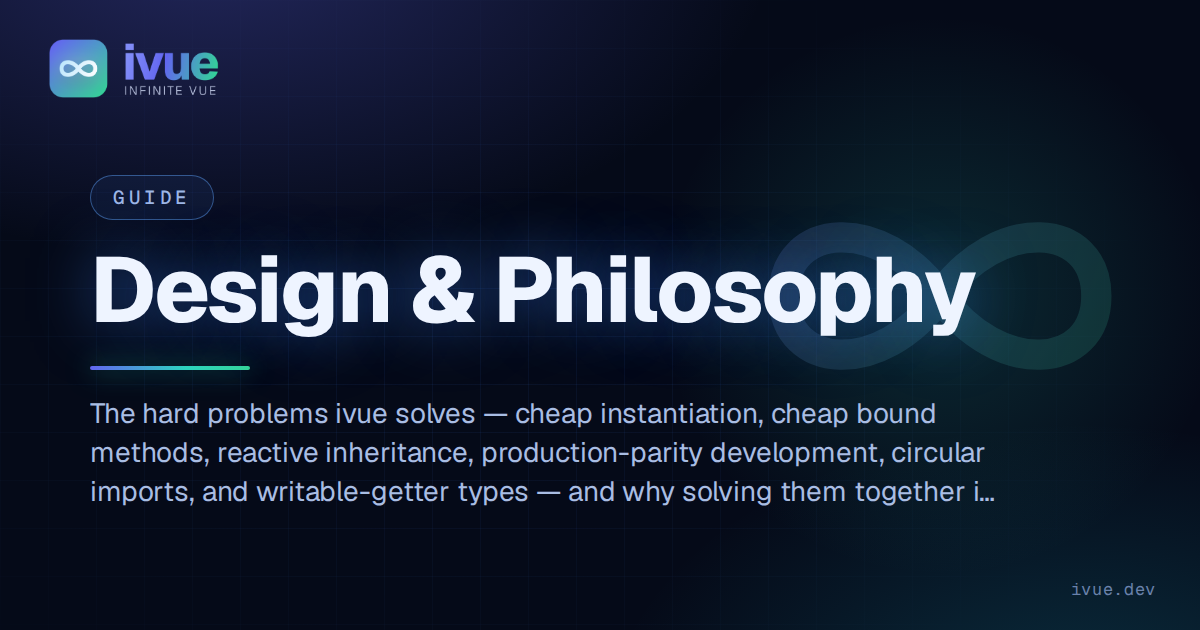
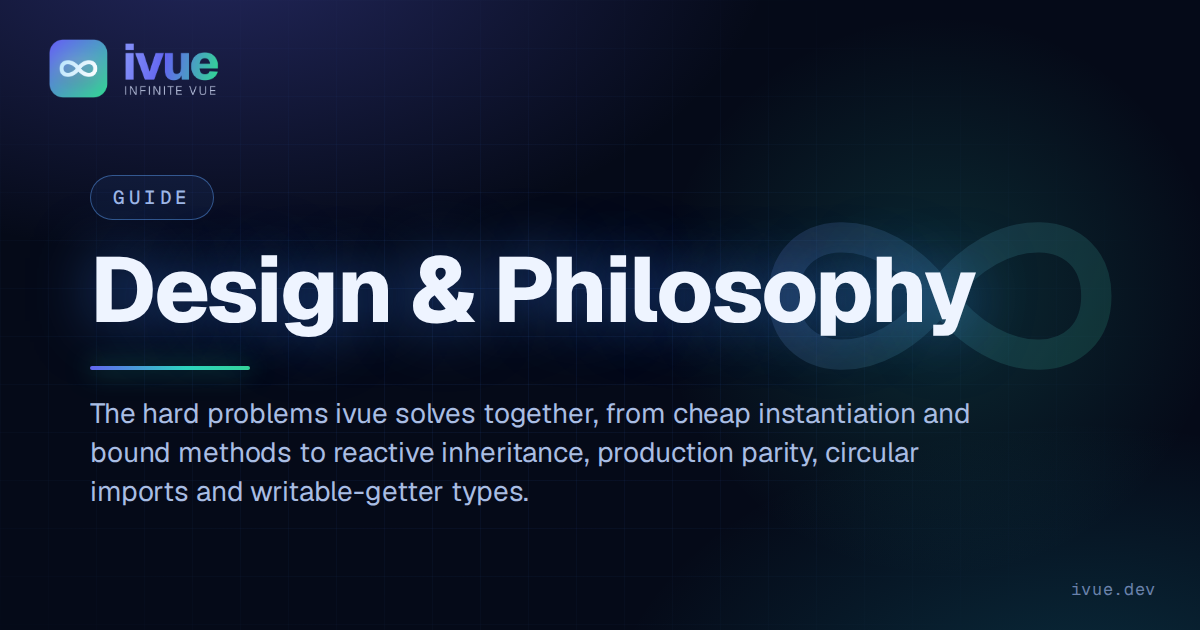
docs(design): run write-prose over the design page
45 vale errors to 0, 24 em-dashes to 0, longest sentence 39 words to 19.
1362 words to 1368, so this one was not long, it was loose.

Pass 2 cuts: "Everyone underestimates this one", a blockquote asserting
importance; "The problem becomes two-fold", a label on two paragraphs
that announce themselves; "Two forces pushed the ecosystem off classes",
the same; "and that's the real reason", an affirmation; "But the
difficulty was the ground under all of it", restating the sentence
before; "ivue solves the whole set" in the intro to a section whose
first line already said it; "ivue is not anti-composable" and "the
ecosystem's decade of composable work isn't ivue's rival", two crouches
in one section; "The types even paid a dividend"; "and it is very hard"
under a heading that says why it's hard.

Pass 3 caught two false claims. "6-132x cheaper to create" turns a time
measurement into a cost claim; the benchmark measures milliseconds, so
it now says faster, matching performance.md. "You cannot pass
this.method around" overstates it; you can pass it, you lose this.

Pass 4: "observation-priced state" appeared once and nowhere else in
the docs. Now "state that costs nothing until it is observed".

Pass 6 caught a pronoun this pass introduced. "It also avoids the two
mistakes" followed a sentence whose subject was the grid, so it read as
the grid avoiding them. Now names ivue.

Also: "Why the field left classes" was an explainer heading, now "The
[…]

Changed region(s): [[0.0617, 0.6333, 0.8325, 0.8143]]

diff --git a/docs_v2/guide/design.md b/docs_v2/guide/design.md
@@ -1,38 +1,37 @@
 ---
 title: Design & Philosophy
-description: The hard problems ivue solves — cheap instantiation, cheap bound methods, reactive inheritance, production-parity development, circular imports, and writable-getter types — and why solving them together is the achievement.
+description: The hard problems ivue solves together, from cheap instantiation and bound methods to reactive inheritance, production parity, circular imports and writable-getter types.
 relatedPosts: [the-object-graph-they-took, the-options-api-everyone-wanted, win-by-reduction]
 ---
 
 # Design & Philosophy
 
-ivue makes classes a first-class way to build Vue reactivity — a real reactive
-unit, not a component wrapper. Getting there meant solving a set of problems
-that actively fight each other, each one hard in its own right. One structure
-solves the set: shared prototype behavior, observation-priced state, and raw
-instance access with stable handles for hot paths.
+ivue makes a class a first-class way to build Vue reactivity. The class is a
+reactive unit in its own right, usable anywhere. Getting there meant solving
+problems that fight each other, each one hard on its own. One structure answers
+the set. Behavior is shared on the prototype. State costs nothing until it
+is observed. Instance access stays raw, with stable handles for hot paths.
 
 ## The problems ivue solves
 
-Every item below has sunk a class-reactivity attempt on its own. Most projects that
-tried nailed one or two and shipped the rest with rough edges. ivue solves the whole
-set.
+Every item below has sunk a class-reactivity attempt on its own. Most
+projects that tried nailed one or two and shipped the rest with rough edges.
 
 <div class="iv-problems">
   <div class="iv-problem">
     <strong class="iv-problem__title">Per-instance cost</strong>
-    <p class="iv-problem__hard"><span class="iv-x" aria-hidden="true"></span><span>A <code>reactive()</code> proxy per object is expensive; eager computeds pay for every property up front.</span></p>
-    <p class="iv-problem__solved"><span class="iv-ck" aria-hidden="true"></span><span>Instances are <strong>plain</strong>, refs/computeds are lazy → <strong>6–132× cheaper to create.</strong></span></p>
+    <p class="iv-problem__hard"><span class="iv-x" aria-hidden="true"></span><span>A <code>reactive()</code> proxy per object is expensive. Eager computeds pay for every property up front.</span></p>
+    <p class="iv-problem__solved"><span class="iv-ck" aria-hidden="true"></span><span>Instances are <strong>plain</strong>, refs/computeds are lazy → <strong>6 to 132× faster to create.</strong></span></p>
   </div>
   <div class="iv-problem">
     <strong class="iv-problem__title">Cheap bound methods</strong>
-    <p class="iv-problem__hard"><span class="iv-x" aria-hidden="true"></span><span>Bind per instance and you allocate a function per method per object; don't bind and <code>this</code> breaks on detach.</span></p>
+    <p class="iv-problem__hard"><span class="iv-x" aria-hidden="true"></span><span>Bind per instance and you allocate a function per method per object. Skip the bind and <code>this</code> breaks on detach.</span></p>
     <p class="iv-problem__solved"><span class="iv-ck" aria-hidden="true"></span><span>Methods stay on the prototype, <strong>bound lazily on first use and cached</strong> → cheap, correct, referentially stable.</span></p>
   </div>
   <div class="iv-problem">
     <strong class="iv-problem__title">Reactive reads</strong>
     <p class="iv-problem__hard"><span class="iv-x" aria-hidden="true"></span><span>A proxy makes every object read cross a runtime interception layer.</span></p>
-    <p class="iv-problem__solved"><span class="iv-ck" aria-hidden="true"></span><span>Raw ivue access is <strong>3–18× faster than proxy-wrapped access</strong>; stable refs and methods hoist to direct-handle speed.</span></p>
+    <p class="iv-problem__solved"><span class="iv-ck" aria-hidden="true"></span><span>Raw ivue access is <strong>3 to 18× faster than proxy-wrapped access</strong>. Stable refs and methods hoist to direct-handle speed.</span></p>
   </div>
   <div class="iv-problem">
     <strong class="iv-problem__title">Reactive inheritance</strong>
@@ -42,104 +41,99 @@ set.
   <div class="iv-problem">
     <strong class="iv-problem__title">Development parity</strong>
     <p class="iv-problem__hard"><span class="iv-x" aria-hidden="true"></span><span>A dev-only proxy or dispatch layer makes local behavior and performance differ from production.</span></p>
-    <p class="iv-problem__solved"><span class="iv-ck" aria-hidden="true"></span><span><code>Reactive()</code> runs <strong>one execution path in every environment</strong>; Vue reconstructs the owner after script edits.</span></p>
+    <p class="iv-problem__solved"><span class="iv-ck" aria-hidden="true"></span><span><code>Reactive()</code> runs <strong>one execution path in every environment</strong>. Vue reconstructs the owner after script edits.</span></p>
   </div>
   <div class="iv-problem">
     <strong class="iv-problem__title">Circular imports hell</strong>
-    <p class="iv-problem__hard"><span class="iv-x" aria-hidden="true"></span><span>Mutual class references throw <code>Cannot access 'X' before initialization</code> — at first load, and again on hot reload when update order reshuffles.</span></p>
+    <p class="iv-problem__hard"><span class="iv-x" aria-hidden="true"></span><span>Mutual class references throw <code>Cannot access 'X' before initialization</code>. It happens at first load, and again on hot reload when update order reshuffles.</span></p>
     <p class="iv-problem__solved"><span class="iv-ck" aria-hidden="true"></span><span>The namespace pattern and late dereference <strong>resolve circular cross-references in any load order</strong>.</span></p>
   </div>
   <div class="iv-problem">
     <strong class="iv-problem__title">Writable-getter types</strong>
     <p class="iv-problem__hard"><span class="iv-x" aria-hidden="true"></span><span><code>get x()</code> is <em>read-only</em> in TypeScript.</span></p>
-    <p class="iv-problem__solved"><span class="iv-ck" aria-hidden="true"></span><span>Mapped types <strong>re-declare ref-returning getters as writable</strong> — the requirement that produced the circular-safe module shape.</span></p>
+    <p class="iv-problem__solved"><span class="iv-ck" aria-hidden="true"></span><span>Mapped types <strong>re-declare ref-returning getters as writable</strong>. This requirement produced the circular-safe module shape.</span></p>
   </div>
   <div class="iv-problem">
     <strong class="iv-problem__title">Deterministic teardown</strong>
-    <p class="iv-problem__hard"><span class="iv-x" aria-hidden="true"></span><span>Track and stop every effect per instance, with no cost for those that have none.</span></p>
-    <p class="iv-problem__solved"><span class="iv-ck" aria-hidden="true"></span><span><code>$watch</code> + <code>$stopEffects</code> — scoped cleanup; instances that never watch allocate <strong>no effect scope</strong>.</span></p>
+    <p class="iv-problem__hard"><span class="iv-x" aria-hidden="true"></span><span>Track and stop every effect per instance, and charge nothing to instances that have none.</span></p>
+    <p class="iv-problem__solved"><span class="iv-ck" aria-hidden="true"></span><span><code>$watch</code> and <code>$stopEffects</code> scope cleanup to the instance. An instance that never watches doesn't allocate a scope.</span></p>
   </div>
 </div>
 
 ## Why it's hard: the problems fight each other
 
-The reason the *set* stayed unsolved is that they
-**interact**. The prototype transform that enables inheritance is the same mechanism
-that makes identity and types difficult. The caching that makes reads cheap is what
-makes `super` and teardown tricky. The types you need for writable getters dictate
+The *set* went unsolved because the problems **interact**. The prototype
+transform that enables inheritance is the same mechanism that makes identity
+and types difficult. The caching that makes reads cheap is what makes
+`super` and teardown tricky. The types you need for writable getters dictate
 how you're even allowed to export the class.
 
-Solving them in isolation is trivial. Solving them so they *all hold at once* —
-cheaply, without a second proxy or object graph bolted on — is the real
-problem, and it is very hard. When one structure makes every constraint true
-simultaneously, you've found the invariant instead of patching symptoms. 
+Solving them in isolation is trivial. The problem is holding them all at
+once, cheaply, with no second proxy or object graph bolted on. When one
+structure makes every constraint hold together, you have the invariant
+rather than a patch.
 
 ### One of them, in full: bound methods
 
-> **Everyone underestimates this one.** 
+In plain JavaScript, Vue and React, passing `this.method` around loses
+`this`. So you write `() => this.method()` or `this.method.bind(this)` at
+every call site. The day someone forgets, `this` is `undefined` at runtime
+and the bug ships.
 
-In plain JavaScript, Vue, React you cannot pass `this.method` around — you write `() => this.method()` or
-`this.method.bind(this)` at every call site, and the day someone forgets, `this` is
-`undefined` at runtime and the bug ships. 
+Bind each method in the constructor and you allocate a fresh function per
+method per instance. That is another tax, and the shared prototype is gone.
 
-**The problem becomes two-fold:**
+Use arrow class fields and you pay the same per-instance closure cost.
+Overriding from a subclass stops working too.
 
-If you bind each method in the constructor instead and you allocate a fresh function per method per instance that's another tax and you lose the shared prototype.
+In ivue the methods live on the prototype. First access binds one and
+**caches** the bound copy on the instance. So `this.method` is correct everywhere and keeps the same
+reference. A bind is paid for the methods you call. The `() => this.method()` wrapper goes, and the class of bug behind it
+goes with it.
 
-If you use arrow class functions as arrow functions are bound by default you get the same per-instance closures overhead and you lose
-prototype override.
+## The retreat from classes
 
+**Inheritance got abused.** Deep, fragile hierarchies gave OOP a bad name,
+and "composition over inheritance" was the recoil. But the recoil threw out
+the class, not just the misuse.
 
-ivue ends the whole saga: methods live on the prototype, get
-bound **lazily** on first access, and are **cached** on the instance — so `this.method`
-is always correct, always the same reference, and costs one bind only for the methods
-you actually use. The `() => this.method()` wrapper, and the class of bug behind it,
-is gone.
+**Classes were hard to make work well.** React's own Hooks motivation says
+it outright: classes "confuse both people and machines." Binding `this` is a
+constant source of bugs. You remember to bind your handlers, or `this` is
+`undefined` at runtime. That is before you add reactive state, the
+per-instance cost, and the `() => this.method()` tax at every call site.
+Making a class behave *cheaply and correctly* was hard enough that the field
+walked away instead.
 
-## Why the field left classes
-
-Two forces pushed the ecosystem off classes:
-
-**Inheritance got abused.** Deep, fragile hierarchies gave OOP a bad name, and
-"composition over inheritance" was the recoil. But the recoil threw out the class,
-not just the misuse.
-
-**Classes were hard to make work well — and that's the real reason.** React's own
-Hooks motivation says it outright: classes "confuse both people and machines" —
-`this` binding is a constant source of bugs; you *remember* to bind your handlers or
-`this` is `undefined` at runtime. That's before you add reactive state, the
-per-instance cost, and the `() => this.method()` tax at every call site. Making a
-class behave *cheaply and correctly* was hard enough that the entire field walked
-away rather than solve it.
-
-Logic reuse and decorator vs TypeScript friction piled on. But the difficulty was the ground
-under all of it. **ivue is the answer to that difficulty** — the exact problems that
-drove people off classes, binding and per-instance cost and reactive inheritance,
-are the ones the [table above](#the-problems-ivue-solves) closes, without the two
-mistakes that doomed the earlier attempts: **no decorators**, and **no class as
-component**.
+Logic reuse and decorator friction with TypeScript piled on top. The
+problems that drove people off classes are binding, per-instance cost and
+reactive inheritance. Those are the ones the
+[grid above](#the-problems-ivue-solves) closes. ivue also avoids the two
+mistakes that doomed the earlier attempts: **no decorators**, and **no class
+as component**.
 
 ## Class ≠ component
 
-The old class approaches made one fatal error: they **welded the class to the
-component**. In `vue-class-component` and React class components, the class *was* the
-component — bound to lifecycle, render, and props-as-`this`. You could never have a
-plain reactive *model* that wasn't also a framework component. React drowned in it:
-binding, lifecycle sprawl, HOC hell.
+The old class approaches **welded the class to the component**. In
+`vue-class-component` and React class components, the class was the
+component, bound to lifecycle, render, and props-as-`this`. There was no way
+to have a plain reactive *model* that was not also a framework component.
+React drowned in it: binding, lifecycle sprawl, HOC hell.
 
 ivue's first decision undoes exactly that:
 
-> **A class is a reactive unit — a store, a view-model, a domain entity — usable
-> anywhere. It is never itself a component.**
+> **A class is a reactive unit, usable anywhere. A store, a view-model, a
+> domain entity. It is never itself a component.**
 
 ## Work with JavaScript's grain
 
-The old attempts fought the language. ivue works with it: no decorators; state is a
-getter returning `ref()` / `computed()`; a one-time prototype rewrite instead of a
-compile-time macro; plain instances instead of a proxy each.
+The old attempts fought the language. ivue works with it, and uses no
+decorators. State is a getter returning `ref()` or `computed()`. A one-time prototype
+rewrite replaces a compile-time macro. Instances stay plain instead of each
+one getting a proxy.
 
-The types even paid a dividend. Surfacing the *writable* instance type requires
-exporting a **`const`** (whose type carries the remapping), not the class directly:
+Exposing the *writable* instance type requires exporting a **`const`** whose
+type carries the remapping, rather than the class directly:
 
 ```ts
 export namespace Thing {
@@ -149,15 +143,14 @@ export namespace Thing {
 }
 ```
 
-A TypeScript `namespace` compiles to a **hoisted `var`** — precisely what makes
-[circular imports resolve in any order](/guide/modules). The type requirement forced
-a module shape that was also circular-safe. One constraint's solution paying off
-another's is the mark of a design built on an invariant, not a pile of patches.
+A TypeScript `namespace` compiles to a **hoisted `var`**, which is what
+makes [circular imports resolve in any order](/guide/modules). The same module
+shape the types required is also circular-safe. Two constraints, one
+solution.
 
 ## Classes for structure, composables for units
 
-ivue is not anti-composable — it runs *on* composables. They're the building blocks
-inside classes:
+ivue runs *on* composables. They are the building blocks inside classes:
 
 ```vue
 <script setup lang="ts">
@@ -184,16 +177,19 @@ const { x, y } = new Pointer()
 <template>Mouse: {{ x }}, {{ y }}</template>
 ```
 
-The class contributes what composables lack — identity, structure, inheritance,
-encapsulation. The composable contributes small, reusable logic. The ecosystem's
-decade of composable work isn't ivue's rival; it's its substrate.
+The class contributes identity, structure, inheritance and encapsulation.
+The composable contributes small, reusable logic, and ivue hosts it.
 
 ## Built for structure at scale
 
 ivue is at its best where reactive state is **structured, plentiful, and
-inheritance-shaped** — entities, editors, graphs, virtual-scrolled lists — and where
-you want real OOP in your reactivity: polymorphic, `super`-callable, cached
-derivations across an inheritance chain, which signal frameworks don't attempt.
-Composables still handle small, local logic — and ivue hosts them when they do.
+inheritance-shaped**. Entities, editors, graphs, virtual-scrolled lists. It
+is also where you want real OOP in your reactivity: polymorphic,
+`super`-callable, cached derivations across an inheritance chain, which
+signal frameworks don't attempt.
 
-For the formal treatment of every guarantee, see [The Invariants Behind ivue](/reference/invariants).
+For the formal treatment of every guarantee, see
+[The Invariants Behind ivue](/reference/invariants).
+
+Constraints that have to hold together make a shape. Taken one at a time
+they make patches.
